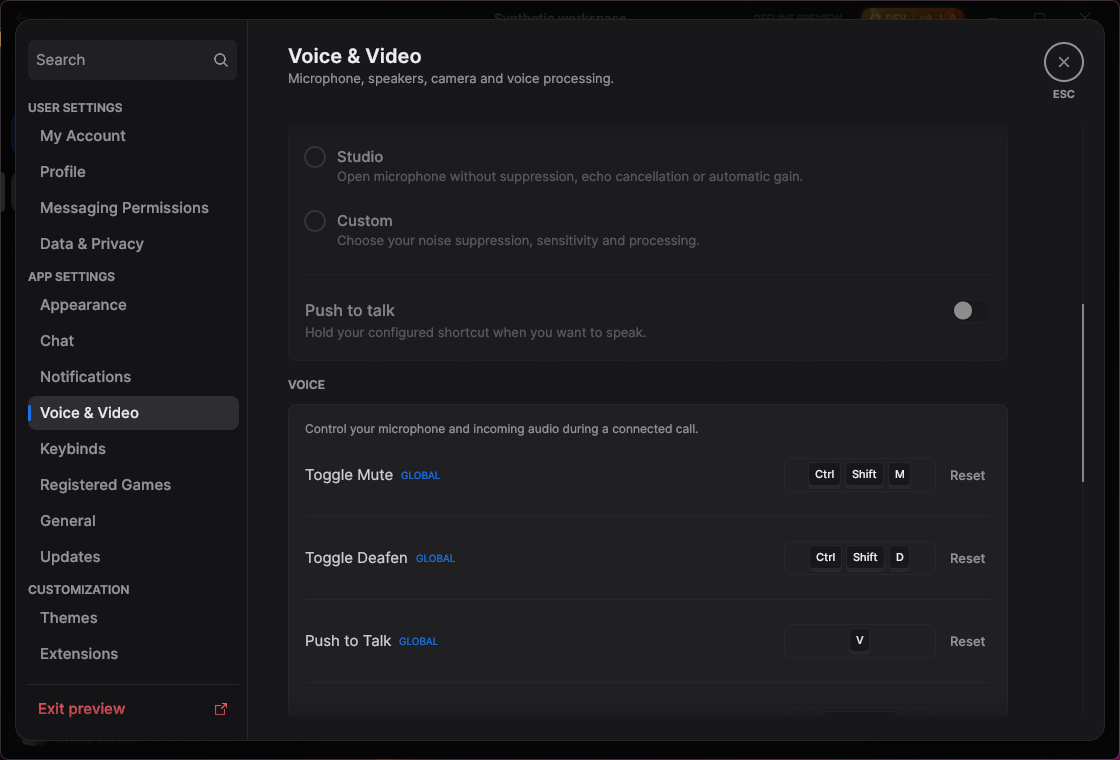
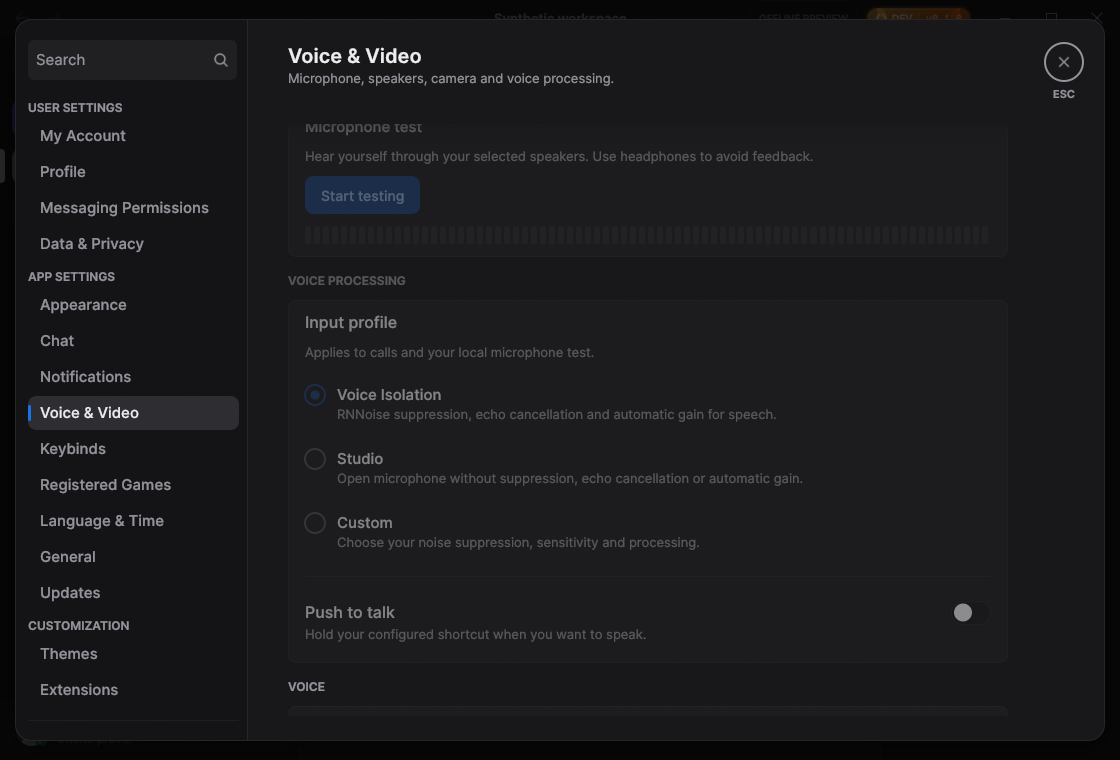
docs(voice): record DeepFilterNet Plus measurements and evidence

diff --git a/docs/performance.md b/docs/performance.md
@@ -4,6 +4,61 @@ Recent synthetic/offline measurements are workload-specific. They do not establi
 performance, universal device results or application-wide memory bounds. The raw PR screenshot,
 log and per-run evidence archive has been removed; the summaries below retain the useful results.
 
+## DeepFilterNet Plus runtime — November 6, 2026
+
+This continues the DeepFilterNet suppressor first proposed in PR #581, whose October 7
+measurements used its tract 0.21.4 runtime on another machine; the numbers below replace
+them. Windows 11 x64 (build 26200), Ryzen 5 7600X, 32 GB RAM, pinned Rust 1.98.1, locked
+dependencies. Both packages come from `cargo xtask package` (voice included, demo and
+development data disabled), stamped with the same version string, from separate worktrees
+and target directories. NSIS is unavailable, so neither has an installer.
+
+| Metric / method | Baseline main `7ecb7619` | This branch | Delta |
+| --- | ---: | ---: | ---: |
+| Release executable | 92,946,432 B | 118,854,144 B | +25,907,712 B (+27.87%) |
+| `dist/` regular-file payload (233 / 300 files) | 97,306,328 B | 123,591,752 B | +26,285,424 B (+27.01%) |
+| ZIP of `dist/` (Python `ZIP_DEFLATED` level 9, sorted paths) | 53,146,168 B | 67,202,034 B | +14,055,866 B (+26.45%) |
+
+The growth is the tract runtime and the embedded 7,983,136-byte DeepFilterNet3 archive,
+paid by every build whether or not the suppressor is selected; the 67 extra files are
+license texts.
+
+A throwaway harness, not committed, timed `Echo::capture` in release builds over 529
+20 ms frames of the upstream DeepFilterNet sample speech mixed with a recorded noise at
+5 dB SNR, with echo cancellation and automatic gain on and no gate. Runs of PR #581's
+runtime (DeepFilterNet `d375b2d` on tract 0.21.4) and this branch's runtime (DeepFilterNet
+Plus `2dc5273` on tract 0.22.5) alternated in four rounds of three runs each:
+
+| Metric | PR #581 runtime | DeepFilterNet Plus, tract 0.22.5 | Delta |
+| --- | ---: | ---: | ---: |
+| Per-frame median, median of 12 runs (range) | 1.22 ms (0.98–1.65) | 1.40 ms (1.23–1.54) | +0.19 ms (+15%) |
+| Per-frame p99, median of 12 runs | 2.85 ms | 3.62 ms | +0.77 ms |
+| Network decode and optimization, median of 12 (range) | 286 ms (257–407) | 247 ms (193–349) | −38 ms (−13%) |
+
+With the final branch, three runs took 221–233 ms to load the networks on the helper
+thread; the longest single `Echo::configure` call on the worker while it polled was
+0.40–0.52 ms, where PR #581 blocked the worker for the whole load. Per-frame medians were
+1.12–1.46 ms (5.6–7.3% of real time) and resets took 0.33–0.39 ms; RNNoise measured
+0.19–0.23 ms per frame in the same runs.
+
+Quality used DeepFilterNet alone (no echo cancellation or gain) and SI-SDR against the
+clean speech after removing the measured 1,440-sample (30 ms) delay. Both runtimes gave
+identical results to two decimals at High. Input SI-SDR was 0.07/5.04/10.02 dB for the
+0/5/10 dB mixtures; the noise-only runs multiply each noise signal by 0.05:
+
+| Strength | Noise-only attenuation (rec. 2530 / rec. 573577 / white) | SI-SDR at 0/5/10 dB SNR, rec. 2530 | Clean speech energy change |
+| --- | ---: | ---: | ---: |
+| Low (12 dB cap) | 11.4 / 12.0 / 12.0 dB | 8.20 / 12.86 / 17.09 dB | −0.14 dB |
+| Moderate (24 dB cap) | 20.4 / 24.0 / 23.8 dB | 10.30 / 14.51 / 18.33 dB | −0.18 dB |
+| High (default, no cap) | 24.6 / 92.9 / 43.3 dB | 10.35 / 14.54 / 18.36 dB | −0.19 dB |
+| Very high (post-filter) | 25.9 / 151.7 / 46.7 dB | 10.24 / 14.45 / 18.34 dB | −0.19 dB |
+
+The sample recordings (freesound 33711, CC BY-NC 3.0 speech; 2530, CC BY 3.0; 573577, CC0)
+come from the upstream repository's `assets/` and are not redistributed. Timings are
+elapsed single-thread component times on a desktop whose background load was not
+controlled, not process CPU. Process memory, whole-app CPU, other CPUs, macOS and Linux,
+physical microphones, perceived quality and live calls are unmeasured.
+
 ## Window drags on Windows — November 5, 2026
 
 Review follow-up: the measurements below describe the original `1f664628` implementation.
